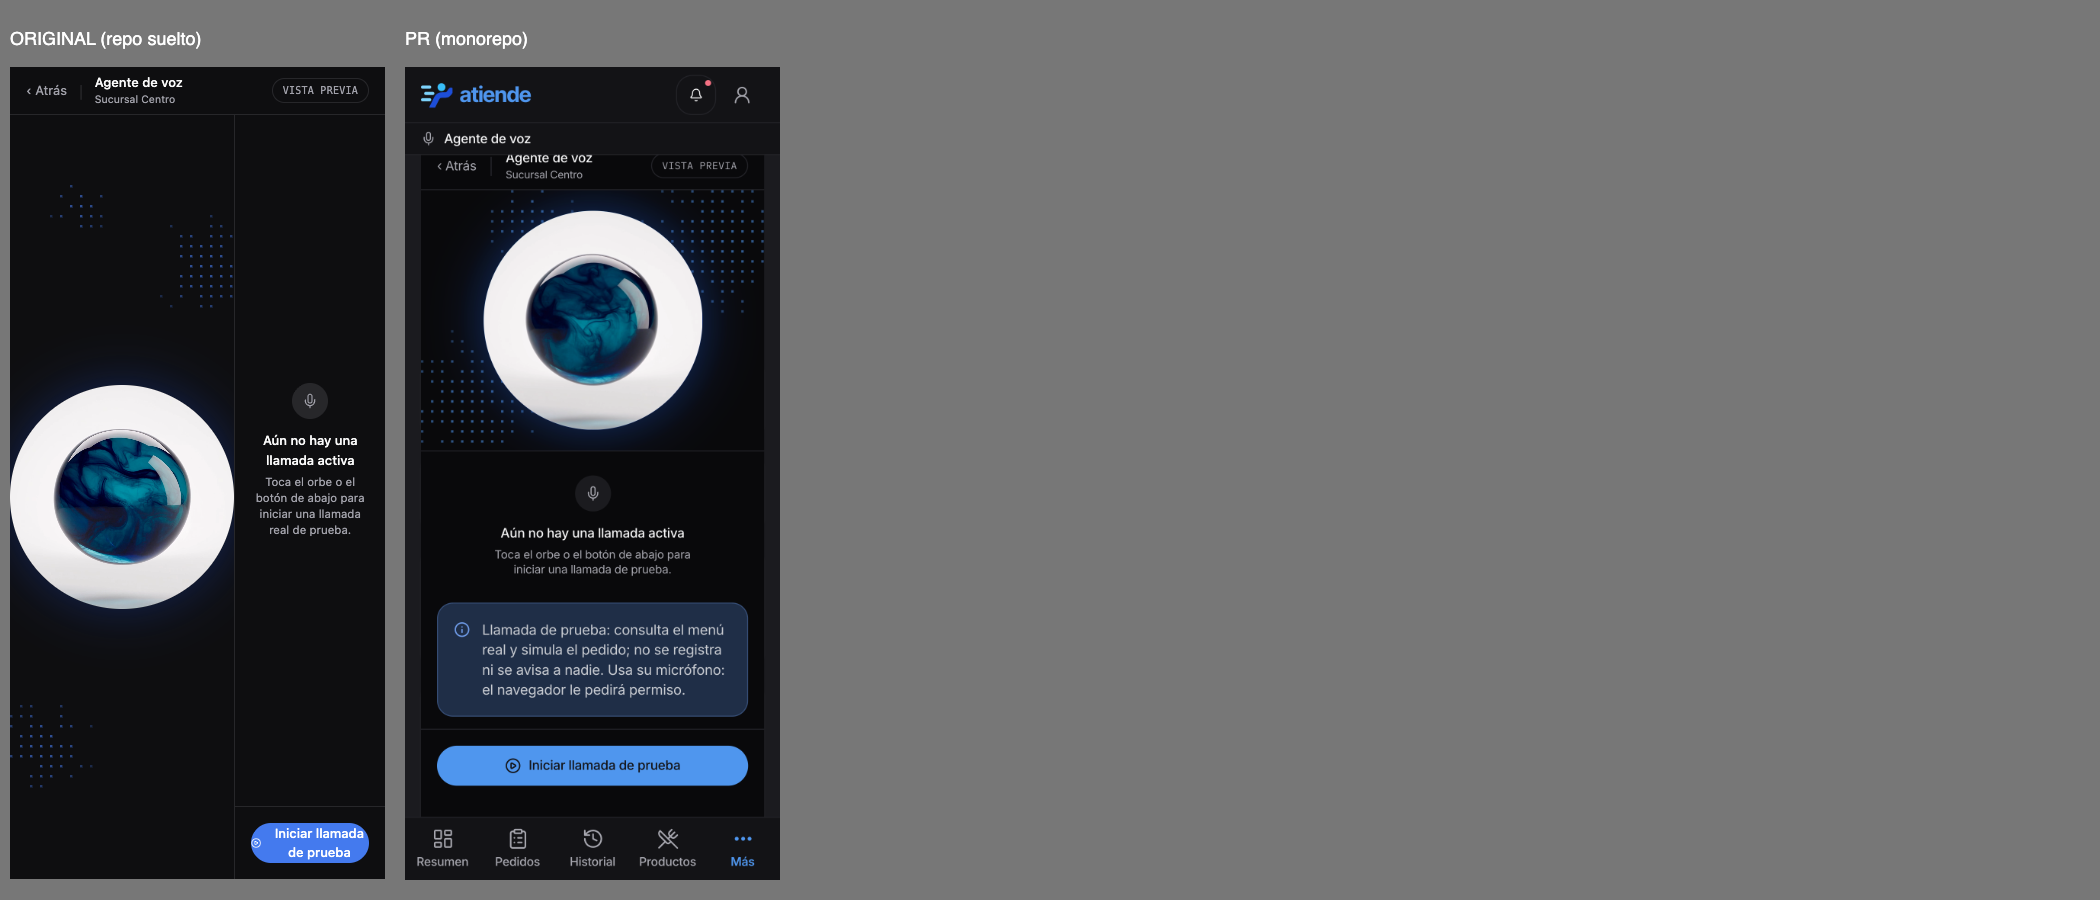
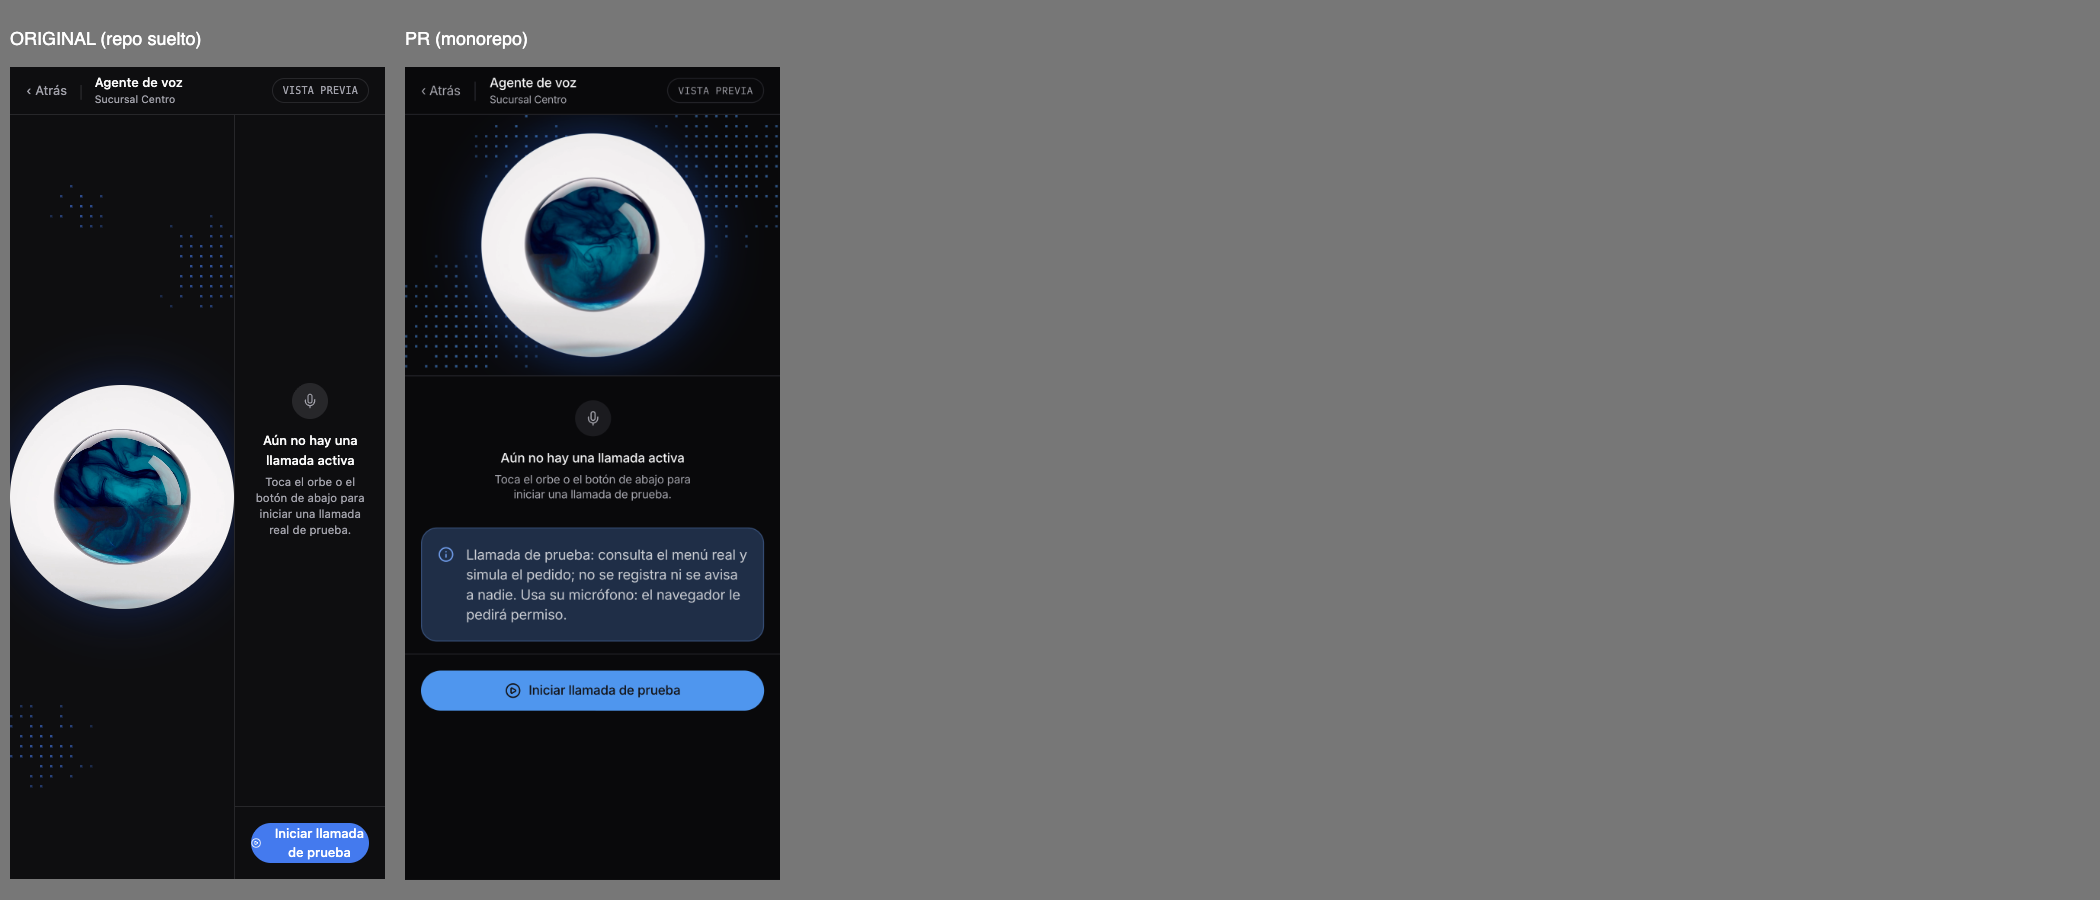
test(e2e): la vista previa de voz cubre toda la pantalla en movil; capturas nuevas

Changed region(s): [[0.1857, 0.0933, 0.3714, 0.8711], [0.1857, 0.9333, 0.3714, 0.9644], [0.3095, 0.0933, 0.3714, 0.1244]]

diff --git a/apps/web/e2e/tests/restaurantes/captura-uni-r4-pruebas-agente.spec.ts b/apps/web/e2e/tests/restaurantes/captura-uni-r4-pruebas-agente.spec.ts
@@ -106,6 +106,12 @@ test.describe("UNI-R4 pruebas del agente @recorrido @oscuro", () => {
     const vista = page.getByRole("dialog", { name: /Vista previa de llamada/ });
     await expect(vista).toBeVisible();
     await expect(page.getByTestId("globo-llamada")).toBeHidden();
+    // En movil es una pantalla fija completa sobre todo (cabecera y barra inferior incluidas).
+    if (info.project.name.startsWith("movil")) {
+      const caja = await vista.boundingBox();
+      const vp = page.viewportSize()!;
+      expect(caja).toMatchObject({ x: 0, y: 0, width: vp.width, height: vp.height });
+    }
     // En escritorio la vista previa cubre tambien la barra superior (como el original).
     if (!info.project.name.startsWith("movil")) {
       const caja = await vista.boundingBox();
